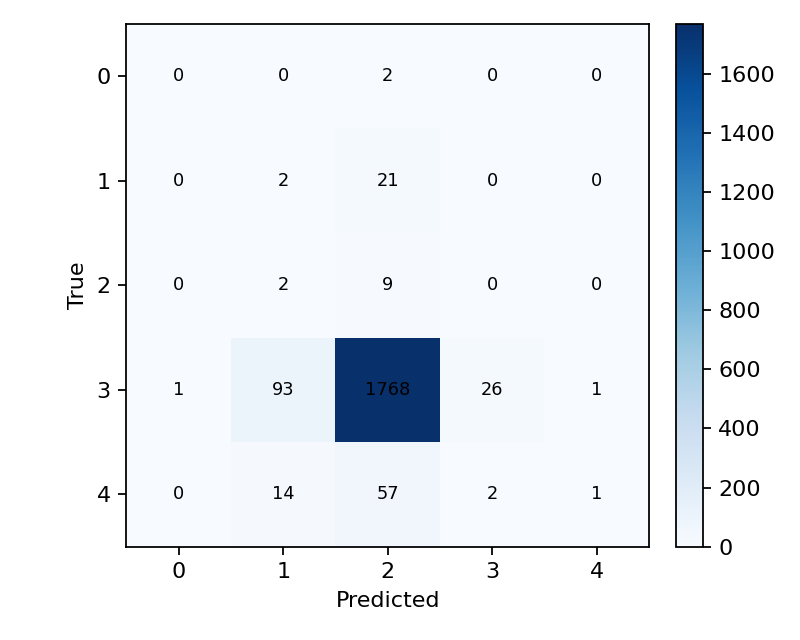
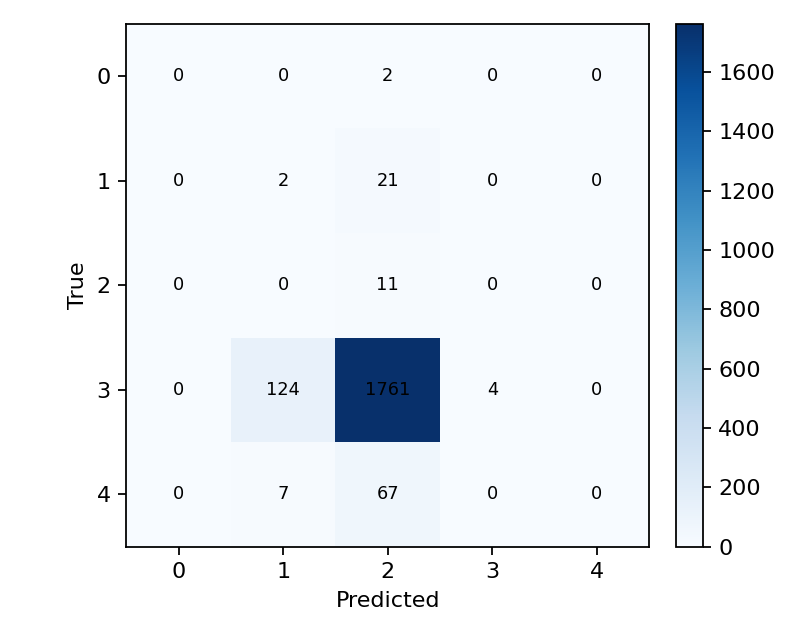
Phase B: validation-based early stopping

diff --git a/scripts/train.py b/scripts/train.py
@@ -44,6 +44,7 @@ class TrainingConfig:
     classifier_lr: float = 1e-4
     weight_decay: float = 0.01
     train_time_seconds: float = 0.0
+    early_stopping_patience: int | None = None
 
     @property
     def model_display_name(self) -> str:
@@ -153,6 +154,12 @@ def run_training(config: TrainingConfig) -> TrainingArtifacts:
 
     history = {"train_loss": [], "val_loss": [], "train_spec_acc": [], "train_sev_acc": [], "val_spec_acc": [], "val_sev_acc": []}
     
+    # Early Stopping state
+    best_val_metric = -1.0
+    early_stopping_counter = 0
+    best_model_state = None
+    metric_name = "Joint Val Macro-F1"
+    
     start_time = time.time()
     TIME_LIMIT_SECONDS = 90 * 60
     timeout_reached = False
@@ -223,6 +230,10 @@ def run_training(config: TrainingConfig) -> TrainingArtifacts:
         # Validation Epoch
         built_model.eval()
         val_metrics = RunningMetrics()
+        val_spec_preds = []
+        val_spec_labels = []
+        val_sev_preds = []
+        val_sev_labels = []
         with torch.no_grad():
             for batch in val_loader:
                 if time.time() - start_time > TIME_LIMIT_SECONDS:
@@ -248,6 +259,10 @@ def run_training(config: TrainingConfig) -> TrainingArtifacts:
                     sev_preds,
                     labels_sev.tolist()
                 )
+                val_spec_preds.extend(spec_preds)
+                val_spec_labels.extend(labels_spec.tolist())
+                val_sev_preds.extend(sev_preds)
+                val_sev_labels.extend(labels_sev.tolist())
         
         val_epoch_metrics = val_metrics.compute()
         history["val_loss"].append(val_epoch_metrics["loss"])
@@ -256,6 +271,45 @@ def run_training(config: TrainingConfig) -> TrainingArtifacts:
         
         console.print(build_val_summary_table(epoch, val_epoch_metrics, time.time() - start_time))
 
+        # Check early stopping patience
+        if config.early_stopping_patience is not None:
+            try:
+                from src.metrics import compute_macro_f1
+                val_spec_macro_f1 = compute_macro_f1(val_spec_labels, val_spec_preds, "specialist")
+                val_sev_macro_f1 = compute_macro_f1(val_sev_labels, val_sev_preds, "severity")
+                val_metric_value = (val_spec_macro_f1 + val_sev_macro_f1) / 2.0
+                metric_name = "Joint Val Macro-F1"
+                
+                if best_val_metric == -1.0 or best_val_metric == float("inf"):
+                    best_val_metric = -1.0
+                
+                is_better = (epoch == 0) or (val_metric_value > best_val_metric)
+            except Exception:
+                val_metric_value = val_epoch_metrics["loss"]
+                metric_name = "Val Loss"
+                
+                if best_val_metric == -1.0:
+                    best_val_metric = float("inf")
+                
+                is_better = (epoch == 0) or (val_metric_value < best_val_metric)
+
+            if is_better:
+                best_val_metric = val_metric_value
+                early_stopping_counter = 0
+                best_model_state = {k: v.cpu().clone() for k, v in built_model.state_dict().items()}
+                
+                # Save the BEST checkpoint immediately
+                results_subdir = REPO_ROOT / "results" / model_meta.short_name
+                results_subdir.mkdir(parents=True, exist_ok=True)
+                checkpoint_path = results_subdir / "checkpoint.pt"
+                torch.save(best_model_state, checkpoint_path)
+                console.print(f"[green]Saved best model checkpoint to: {checkpoint_path} (Best {metric_name}: {best_val_metric:.4f})[/green]")
+            else:
+                early_stopping_counter += 1
+                if early_stopping_counter >= config.early_stopping_patience:
+                    console.print(f"[yellow]Early stopping triggered at epoch {epoch + 1} (Patience of {config.early_stopping_patience} reached)[/yellow]")
+                    break
+
     elapsed_time = time.time() - start_time
     # Update config with train time
     config_dict = config.__dict__.copy()
@@ -263,13 +317,18 @@ def run_training(config: TrainingConfig) -> TrainingArtifacts:
     config_dict["train_time_seconds"] = elapsed_time
     updated_config = TrainingConfig(**config_dict)
 
-    # Save model checkpoint
-    results_subdir = REPO_ROOT / "results" / model_meta.short_name
-    results_subdir.mkdir(parents=True, exist_ok=True)
-    checkpoint_path = results_subdir / "checkpoint.pt"
-    cpu_state_dict = {k: v.cpu() for k, v in built_model.state_dict().items()}
-    torch.save(cpu_state_dict, checkpoint_path)
-    console.print(f"[green]Saved model checkpoint to: {checkpoint_path}[/green]")
+    # If early stopping was active, restore the best weights for final return/evaluation
+    if config.early_stopping_patience is not None and best_model_state is not None:
+        console.print("[green]Restoring best checkpoint weights for final evaluation...[/green]")
+        built_model.load_state_dict({k: v.to(device) for k, v in best_model_state.items()})
+    elif best_model_state is None:
+        # Fallback if early stopping was disabled or no epochs trained: save current state
+        results_subdir = REPO_ROOT / "results" / model_meta.short_name
+        results_subdir.mkdir(parents=True, exist_ok=True)
+        checkpoint_path = results_subdir / "checkpoint.pt"
+        cpu_state_dict = {k: v.cpu() for k, v in built_model.state_dict().items()}
+        torch.save(cpu_state_dict, checkpoint_path)
+        console.print(f"[green]Saved final model checkpoint to: {checkpoint_path}[/green]")
 
     return TrainingArtifacts(model=built_model, tokenizer=tokenizer, test_loader=test_loader, config=updated_config, history=history)
 

diff --git a/scripts/run_experiment.py b/scripts/run_experiment.py
@@ -182,7 +182,7 @@ def run_training_choice(choice: int, console: Console, results_dir: Path = RESUL
         console.print(f"[dim]Loading notes: {notes}[/dim]")
 
     if publication:
-        config = trainer.TrainingConfig(model_cls=spec.model_cls, epochs=10, max_rows=None)
+        config = trainer.TrainingConfig(model_cls=spec.model_cls, epochs=10, max_rows=None, early_stopping_patience=3)
     else:
         config = trainer.TrainingConfig(model_cls=spec.model_cls)
 
